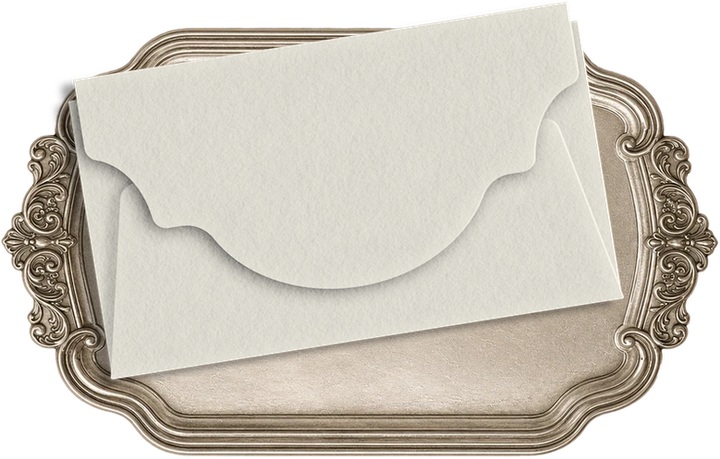
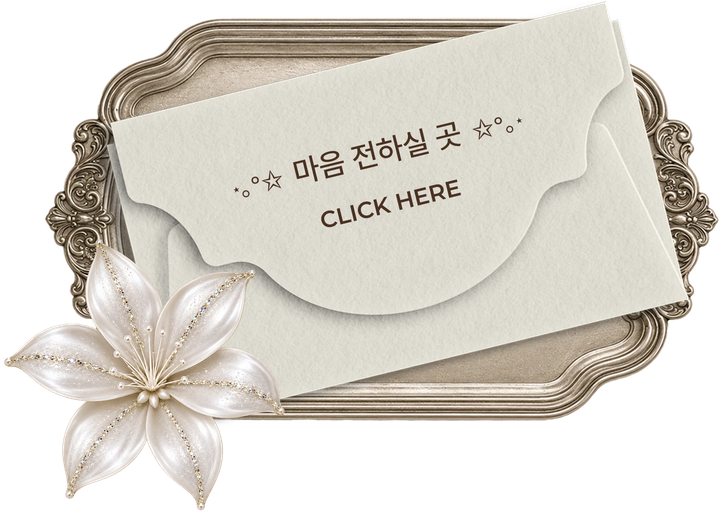
마음 전하실 곳 스티커를 완성 이미지(쟁반·봉투·꽃·문구)로 교체
Claude-Session: https://claude.ai/code/session_01BQdfjNVP6cq2YY2kHQCcfg

diff --git a/index.html b/index.html
@@ -607,9 +607,8 @@ const CONFIG = {
     { file:"photos/st-details.png",       label:"2 · 예식 안내",x:2,  y:56,  w:56, r:-6, to:".when" },
     { file:"photos/polaroid-frame.png",   label:"4 · Moments", x:61, y:64,  w:33, r:5,  to:".gallery",
       photo:{ src:"photos/g02.jpg", l:8, t:7, w:84, h:66 }, text:["s:Our Moments","c:Click here"], ty:86, fs:.62 },
-    /* 은쟁반 + 봉투 합성 이미지, 문구는 봉투 기울기(-9°)에 맞춰 코드로 */
-    { file:"photos/st-gift.png",          label:"6 · 마음 전하실 곳",x:2, y:100, w:68, r:-3, to:"#gift",
-      text:["k:⋆｡°✩ 마음 전하실 곳 ✩°｡⋆","c:Click here"], ty:37, tx:-8, trot:-9, fs:.78 },
+    /* 은쟁반 + 봉투 + 꽃 — 문구까지 들어간 완성 이미지 */
+    { file:"photos/st-gift.png",          label:"6 · 마음 전하실 곳",x:2, y:100, w:68, r:0,  to:"#gift" },
     { file:"photos/wax-seal.png",         label:"씰",          x:64, y:128, w:16, r:0 },
     { file:"photos/ribbon.png",           label:"리본",        x:4,  y:142, w:40, r:-8 },
     { file:"photos/hydrangea.png",        label:"5 · Info",    x:44, y:136, w:54, r:4,  to:".tlsec",
